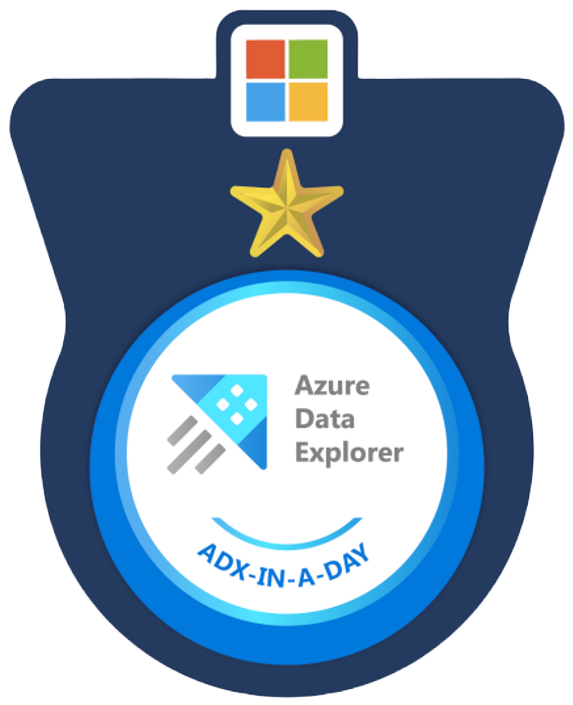
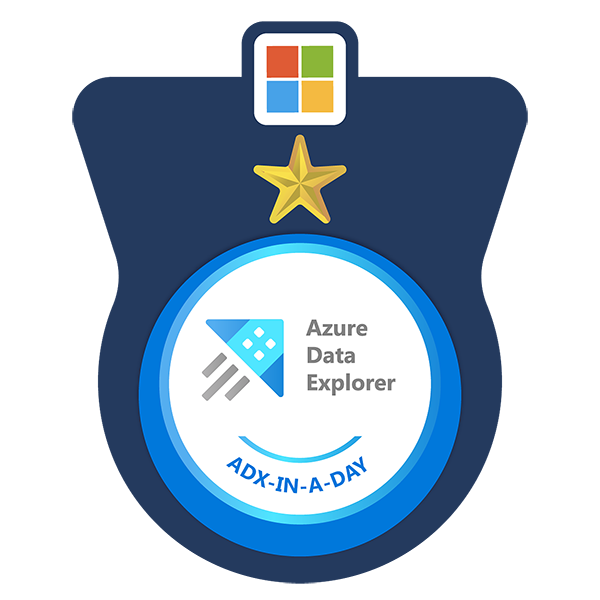
Changed badge pic

diff --git a/README.md b/README.md
@@ -13,7 +13,7 @@ Each challenge has a set of tasks that need to be completed in order to move on 
 ---
 Earn a digital badge! In order to receive the "ADX In a Day" digital badge, you will need to complete the tasks marked with 🎓. Please submit the KQL queries/commands of these tasks in the following link: [Answer sheet - ADX Lab 1](https://forms.office.com/r/3V7yjXwAMD)
 
-<img src="/assets/images/Badge_Transparent.png" width="400">
+<img src="/assets/images/Badge_Transparent.png" width="200">
 
 ---
 ---
